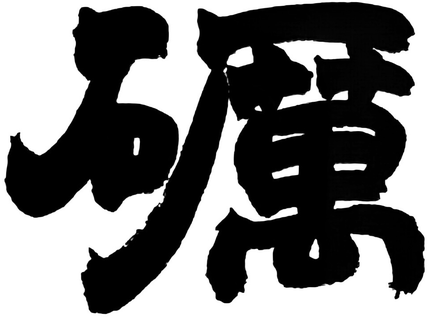
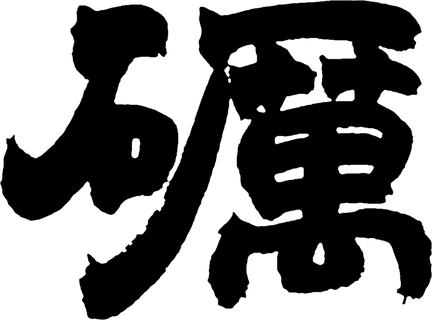
登录页微调：副题改「博学宏才 · 艺德卓绝」，统一砺/蕴笔画粗细，更名砺蕴2026
- 副题：播音主持 · 艺考教务 → 博学宏才 · 艺德卓绝
- 书法标志：两张原照笔画粗细不一（砺中位 42px vs 蕴 36px），
  用距离变换量宽后，砺收缩 2px、蕴加粗 2px 汇于 39~40px，
  两字同一高斯羽化参数重制（assets 三张全部更新）
- 更名：浏览器标题 / PWA 名称 / 电脑侧边栏 / 手机顶栏
  「砺蕴工作台」→「砺蕴2026」；备份元数据与分享图卡署名暂保持不变

diff --git a/index.html b/index.html
@@ -16,7 +16,7 @@
 <head>
 <meta charset="utf-8">
 <meta name="viewport" content="width=device-width,initial-scale=1,viewport-fit=cover,user-scalable=no">
-<title>砺蕴工作台</title>
+<title>砺蕴2026</title>
 
 <!-- PWA：这四行决定了"添加到主屏幕"之后是不是全屏、图标好不好看 -->
 <link rel="manifest" href="manifest.json">
@@ -394,7 +394,7 @@ input:focus,textarea:focus,select:focus{outline:none;border-color:var(--accent)}
   <aside class="side">
     <div class="brand">
       <div class="logo">🎙</div>
-      <div class="name">砺蕴工作台</div>
+      <div class="name">砺蕴2026</div>
     </div>
     <nav class="nav" id="nav">
       <!-- 由 App.routes 自动渲染 -->
@@ -407,7 +407,7 @@ input:focus,textarea:focus,select:focus{outline:none;border-color:var(--accent)}
   <!-- ==== 手机顶栏 START ====（只在手机上出现） -->
   <header class="topbar" id="topbar">
     <span class="t-logo">🎙</span>
-    <span class="t-name" id="topName">砺蕴工作台</span>
+    <span class="t-name" id="topName">砺蕴2026</span>
     <button class="t-more" onclick="App.drawer(true)">全部功能</button>
   </header>
   <!-- ==== 手机顶栏 END ==== -->
@@ -1004,7 +1004,7 @@ input:focus,textarea:focus,select:focus{outline:none;border-color:var(--accent)}
       <div class="g-logo" role="img" aria-label="砺蕴"></div>
       <span class="rule"></span>
     </div>
-    <div class="g-tagline">播音主持 · 艺考教务</div>
+    <div class="g-tagline">博学宏才 · 艺德卓绝</div>
     <div class="g-sub" id="gSub">登录后开始今天的工作</div>
     <div class="g-form">
       <input type="text" id="gUser" placeholder="用户名" autocomplete="username" autocapitalize="off" autocorrect="off" spellcheck="false">
@@ -1533,7 +1533,7 @@ const App = {
        </button>`).join('');
 
     const tn = document.getElementById('topName');
-    if (tn) tn.textContent = Auth.isStaff() ? '砺蕴工作台' : (Auth.name() || '砺蕴工作台');
+    if (tn) tn.textContent = Auth.isStaff() ? '砺蕴2026' : (Auth.name() || '砺蕴2026');
   },
 
   drawer(on){
